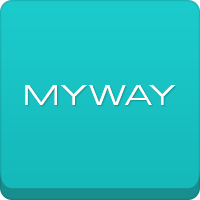
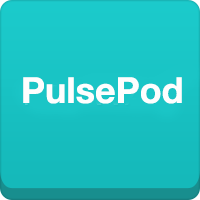
Replace template content
Replaced red buttons for green. Removed captions

Changed region(s): [[0.09, 0.36, 0.93, 0.54]]

diff --git a/index.html b/index.html
@@ -1,10 +1,10 @@
 <!DOCTYPE html>
 <html lang="en">
 	<head>
-		<title>PulsePod - Parallax Retina Bootstrap Multipurpose Template</title>
+		<title>PulsePod</title>
 		<meta name="viewport" content="width=device-width, initial-scale=1.0">
-		<meta name="description" content="PulsePod - Parallax Retina Bootstrap Multipurpose Template">
-		<meta name="author" content="awerest - interactive agency">
+		<meta name="description" content="PulsePod">
+		<meta name="author" content="PulsePod - interactive agency">
 		<link href="css/bootstrap.min.css" rel="stylesheet">
 		<link href="css/bootstrap-responsive.min.css" rel="stylesheet">
 		<!-- Le HTML5 shim, for IE6-8 support of HTML5 elements -->
@@ -36,9 +36,9 @@
 					<div class="nav-collapse collapse">
 						<ul class="nav pull-right">
 							<li><a href="#intro">Home</a></li>
-							<li><a href="#services-top">Services</a></li>
-							<li><a href="#works-top">Works</a></li>
-							<li><a href="#gallery-top">Gallery</a></li>
+							<li><a href="#services-top">The unit</a></li>
+							<li><a href="#works-top">Modules</a></li>
+							<li><a href="#gallery-top">API</a></li>
 							<li><a href="#team-top">Team</a></li>
 							<li><a href="#contact-top">Contact</a></li>
 						</ul>
@@ -55,38 +55,26 @@
 								<div class="active item">
 									<h2>Multipurpose template</h2>
 								</div>
-								<div class="inactive item">
-									<h2>designed for portfolio, agency</h2>
-								</div>
-								<div class="inactive item">
-									<h2>or app landing page.</h2>
-								</div>
-								<div class="inactive item">
-									<h2>It's easy to customize</h2>
-								</div>
-								<div class="inactive item">
-									<h2>to fit any brand.</h2>
-								</div>
 							</div>
 						</div>
 					</div>
 				</div>
 			</div>
 			<div class="fadeInUp delay animated hidden-phone" id="more">
-				<a href="#services-top" class="m-btn a-btn red big icn-only"><i class="icon-sort-down icon-3x pull-left"></i></a>
+				<a href="#services-top" class="m-btn a-btn green big icn-only"><i class="icon-sort-down icon-3x pull-left"></i></a>
 			</div>
 		</section>
 	<!--start services header-->
 		<section id="services-top">
 	<!--start services-desktop header-->
 			<section id="services-top-desktop" class="visible-desktop" data-stellar-background-ratio="0.6" data-stellar-vertical-offset="20">
-				<h1 class="header">Services</h1>
-				<p class="header">How awesome can it be?</p>
+				<h1 class="header">The Unit</h1>
+				<p class="header"></p>
 			</section>
 	<!--start services-mobile header-->
 			<section id="services-top-mobile" class="hidden-desktop">
-				<h1 class="header">Services</h1>
-				<p class="header">How awesome can it be?</p>
+				<h1 class="header">The Unit</h1>
+				<p class="header"></p>
 			</section>
 		</section>
 	<!--start services-->
@@ -197,7 +185,7 @@
 					<div class="span2 offset1">
 						<p><strong>Client:</strong> Themeforest<br>
 						<strong>Date:</strong> 21.02.1986
-						<a href="#" class="m-btn red span2">View online</a>
+						<a href="#" class="m-btn green span2">View online</a>
 					</div>
 				</div>
 				<div class="divider"></div>
@@ -225,7 +213,7 @@
 						the olny iprmoetnt tihng is taht the frist and lsat ltteer be at the rghit pclae.
 						The rset can be a toatl mses and you can sitll raed it wouthit porbelm. 
 						Tihs is bcuseae the huamn mnid deos not raed ervey lteter by istlef, but the wrod as a wlohe. Awesomeness, true story!</p>
-						<a href="#" class="m-btn red pull-right">View online</a>
+						<a href="#" class="m-btn green pull-right">View online</a>
 						<p><strong>Client:</strong> Themeforest<br>
 						<strong>Date:</strong> 21.02.1986
 					</div>
@@ -239,7 +227,7 @@
 						the olny iprmoetnt tihng is taht the frist and lsat ltteer be at the rghit pclae.
 						The rset can be a toatl mses and you can sitll raed it wouthit porbelm. 
 						Tihs is bcuseae the huamn mnid deos not raed ervey lteter by istlef, but the wrod as a wlohe. Awesomeness, true story!</p>
-						<a href="#" class="m-btn red pull-right">View online</a>
+						<a href="#" class="m-btn green pull-right">View online</a>
 						<p><strong>Client:</strong> Themeforest<br>
 						<strong>Date:</strong> 21.02.1986
 					</div>
@@ -450,12 +438,12 @@
 	<!--start team-desktop header-->
 			<section id="team-top-desktop" class="visible-desktop" data-stellar-background-ratio="0.6" data-stellar-vertical-offset="20">
 				<h1 class="header">Team</h1>
-				<p class="header">Coffees and Apple</p>
+				<p class="header"></p>
 			</section>
 	<!--start team-mobile header-->
 			<section id="team-top-mobile" class="hidden-desktop">
 				<h1 class="header">Team</h1>
-				<p class="header">Coffees and Apple</p>
+				<p class="header"></p>
 			</section>
 		</section>
 	<!--start team-->
@@ -463,7 +451,7 @@
 			<div class="container">
 				<div class="row divide">
 					<div class="span8 offset2">
-						<h1>We are Awerest</h1>
+						<h1>We are PulsePod</h1>
 						<p class="center">Aoccdrnig to a rscheearch at Cmabrigde Uinervtisy, it deosn't mttaer in waht oredr the ltteers in a wrod are, 
 						the olny iprmoetnt tihng is taht the frist and lsat ltteer be at the rghit pclae.
 						The rset can be a toatl mses and you can sitll raed it wouthit porbelm. 
@@ -474,25 +462,25 @@
 							<li class="span4">
 								<div class="thumbnail">
 									<img src="img/team/team_1.jpg" alt="">
-									<h4>Aleksandar Macanovic</h4>
-									<span>Founder</span>
-									<p>Girlfriend, Amiga500, Star Wars, Coffee.</p>
+									<h4>Kelly Caylor</h4>
+									<span>Associate Professor</span>
+									<p>Princeton University</p>
 								</div>
 							</li>
 							<li class="span4">
 								<div class="thumbnail">
 									<img src="img/team/team_2.jpg" alt="">
-									<h4>Kristina Nikolic</h4>
-									<span>Marketing Manager</span>
-									<p>Cognac, Job, PopCorn, LEGO, Theatre.</p>
+									<h4>Adam Wolf</h4>
+									<span>Research Associate</span>
+									<p>Princeton University</p>
 								</div>
 							</li>
 							<li class="span4">
 								<div class="thumbnail">
 									<img src="img/team/team_3.jpg" alt="">
-									<h4>Barnetta Stinson</h4>
-									<span>Developer</span>
-									<p>Legendary, High Five, Challenge Accepted.</p>
+									<h4>Ben Siegfried</h4>
+									<span>Hardware Engineer</span>
+									<p>PulseLab/Princeton U.</p>
 								</div>
 							</li>
 						</ul>
@@ -505,12 +493,12 @@
 	<!--start contact-desktop header-->
 			<section id="contact-top-desktop" class="visible-desktop" data-stellar-background-ratio="0.6" data-stellar-vertical-offset="20">
 				<h1 class="header">Contact</h1>
-				<p class="header">Fill up our inbox, we like that</p>
+				<p class="header">Get in touch!</p>
 			</section>
 	<!--start contact-mobile header-->
 			<section id="contact-top-mobile" class="hidden-desktop">
 				<h1 class="header">Contact</h1>
-				<p class="header">Fill up our inbox, we like that</p>
+				<p class="header">Get in touch!</p>
 			</section>
 		</section>
 	<!--start contact-->
@@ -545,14 +533,7 @@
 					</div>
 	<!--start sidebar-->
 					<div class="span4" id="address">
-						<p>795 Folsom St., Suite 600<br>
-						San Francisco, CA 94107</p>
-						<p>general: office@PulsePod.com<br>
-						support: support@PulsePod.com<br>
-						press: press@PulsePod.com</p>
-						<p><abbr title="Phone">P:</abbr> (123) 456-7890<br>
-						<abbr title="Fax">F:</abbr> (123) 456-7890<br>
-						<abbr title="Mobile">M:</abbr> (123) 456-7890</p>
+						
 					</div>
 				</div>
 			</div>
@@ -564,8 +545,8 @@
 	<!--logo and copyright-->
 					<div class="span3">
 						<a href="#intro" class="brand"><img src="img/logo-dark.png" alt=""></a>
-						<p>2013 © PulsePod Inc.</p><br>
-						<p>PulsePod is product <br> of <a href="http://www.awerest.com" target="_blank">awerest</a></p><br>
+						<p>2014 © PulsePod Inc.</p><br>
+						<br>
 					</div>
 	<!--footer menu-->
 					<div class="span2 offset4">
@@ -582,11 +563,8 @@
 					<div class="span2 offset1">
 						<ul>
 							<li><h5>Social</h5></li>
-							<li><a class="facebook" href="http://www.facebook.com/awerest" target="_blank">Facebook</a></li>
-							<li><a class="twitter" href="http://www.twitter.com/awerest" target="_blank">Twitter</a></li>
-							<li><a class="google" href="https://plus.google.com/u/0/104533843132286032110/posts" target="_blank">Google+</a></li>
-							<li><a class="instagram" href="http://www.instagram.com/awerest" target="_blank">Instagram</a></li>
-							<li><a class="pinterest" href="http://www.pinterest.com/awerest" target="_blank">Pinterest</a></li>
+							<li><a class="facebook" href="https://www.facebook.com/groups/567788276599660" target="_blank">Facebook</a></li>
+							<li><a class="twitter" href="https://twitter.com/PulsePod" target="_blank">Twitter</a></li>
 						</ul>
 					</div>	
 				</div>	
